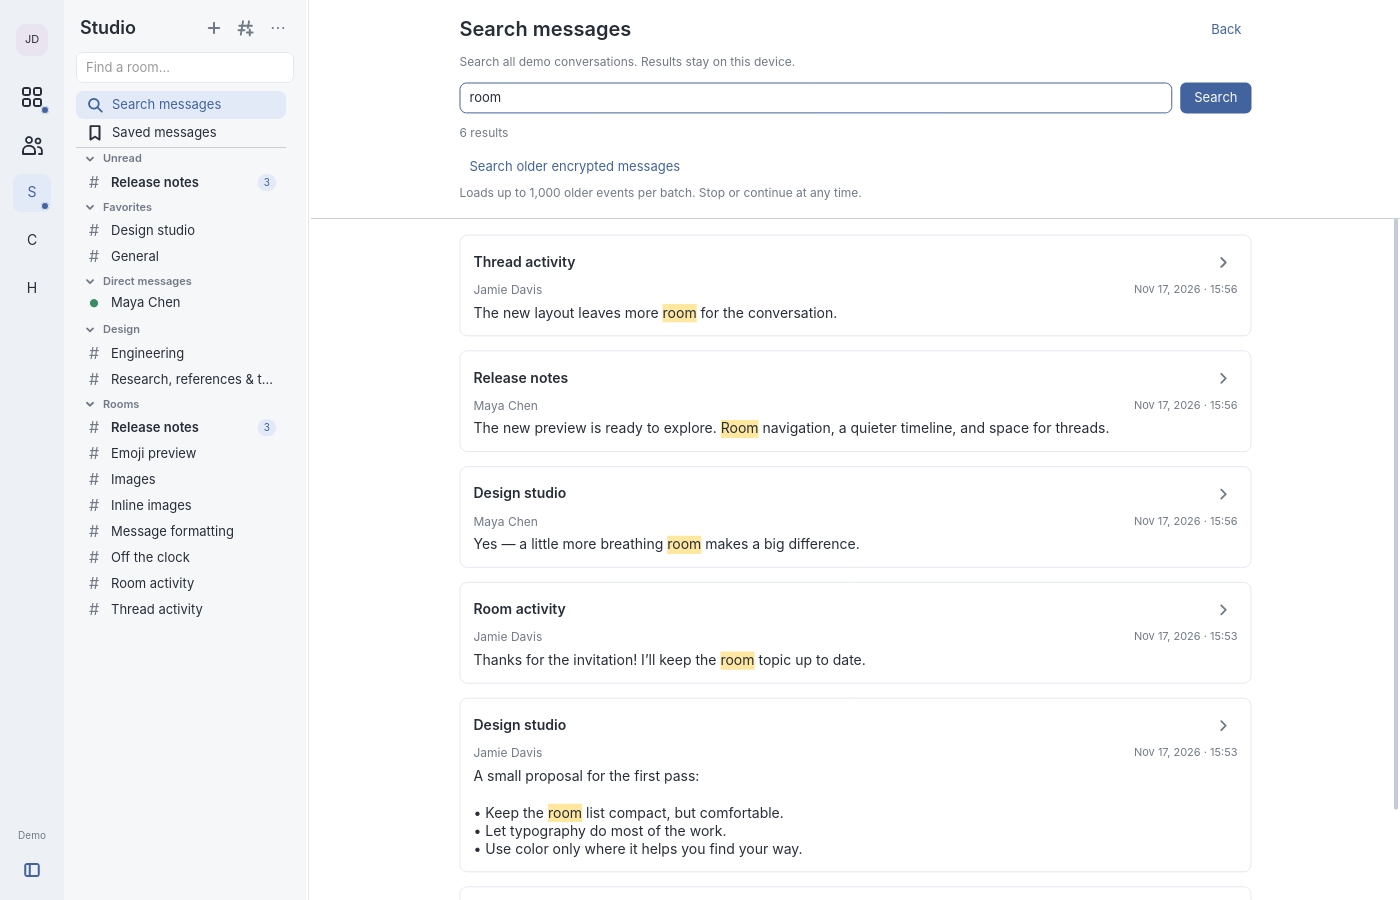
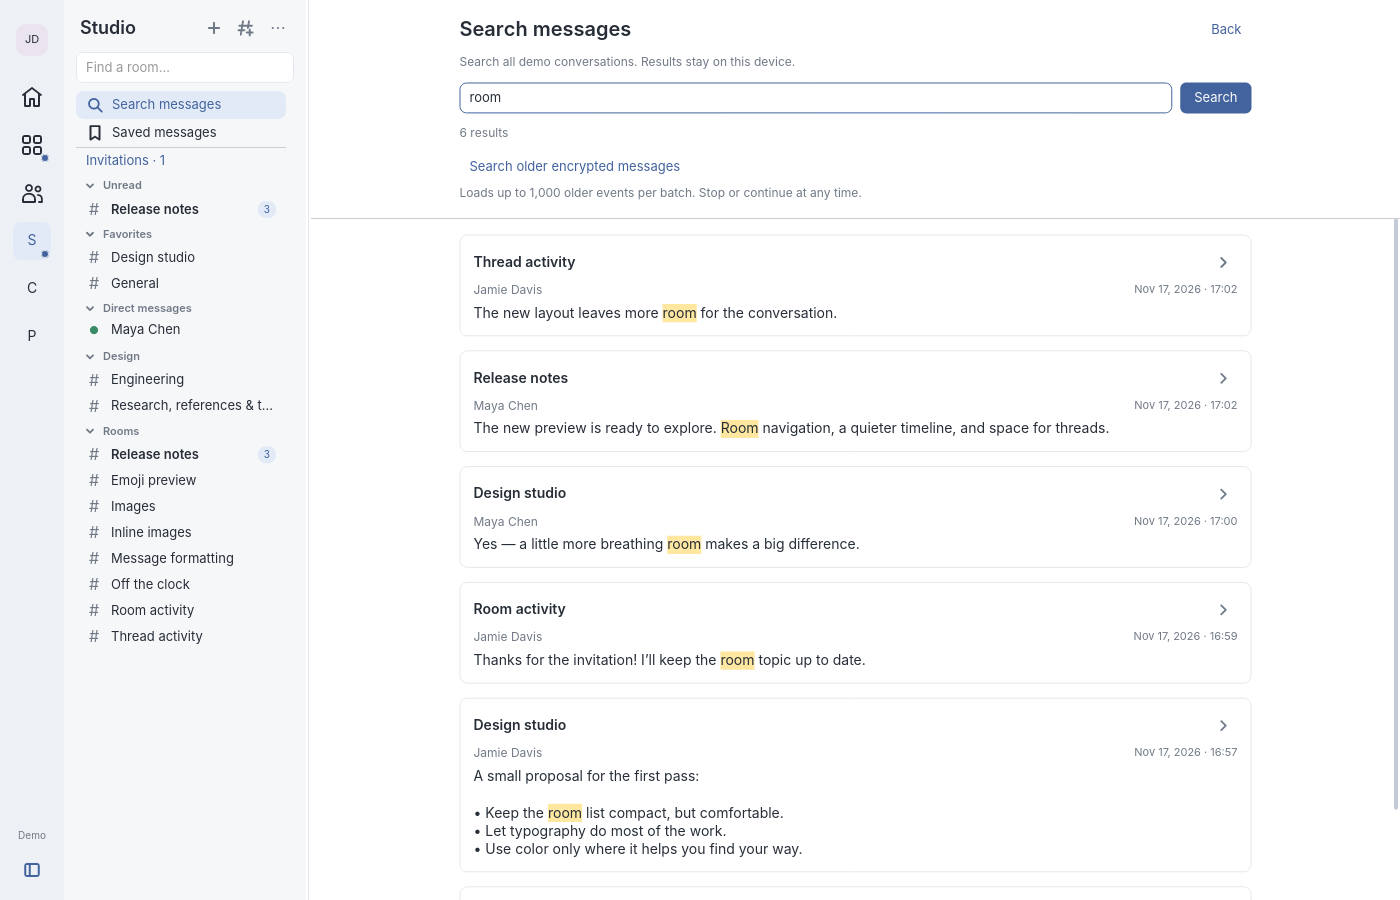
Refresh README and demo screenshots for current navigation

Changed region(s): [[0.0614, 0.1556, 0.1843, 0.7156], [0.0, 0.1556, 0.0307, 0.2178], [0.0, 0.0933, 0.0307, 0.1244]]

diff --git a/README.md b/README.md
@@ -6,29 +6,30 @@
 
 Interconnect is a native desktop [Matrix](https://matrix.org/) client written in
 Rust with [Iced](https://iced.rs/) and the
-[Matrix Rust SDK](https://github.com/matrix-org/matrix-rust-sdk). Spaces, custom
-room sections, and side-by-side threads keep conversations organized in a minimal
-interface. Message search, saved messages, and keyboard shortcuts help you find
-your way around busy accounts. Event-driven updates aim to keep idle CPU use and
-wakeups low.
+[Matrix Rust SDK](https://github.com/matrix-org/matrix-rust-sdk). Home, spaces,
+custom room sections, and side-by-side threads keep conversations organized in a
+minimal interface. Encrypted local text drafts survive restarts; message search,
+saved messages, and keyboard shortcuts help you find your way around busy accounts.
+Event-driven updates aim to keep idle CPU use and wakeups low.
 
 This project is fully AI-coded for the developer's own use, and shared in case
 it's useful to anyone else. It's a working prototype, with Linux/Wayland as the
 primary development platform and experimental Apple Silicon macOS builds.
 
-![Interconnect showing space navigation, unread rooms, custom sections, presence marks, and a conversation with a side-by-side thread](docs/images/demo.png)
+![Interconnect showing the Home house icon above All, an invitation shortcut, unread rooms, custom sections, and a conversation with a side-by-side thread](docs/images/demo.png)
 
-*Room and thread conversations in demo mode, using only local sample data.*
+*Home and space navigation, invitations, and a side-by-side thread. All names and messages are local demo data.*
 
 ## Current features
 
-- Password and browser SSO login, saved sessions, encrypted messaging, and device
-  verification, plus desktop sign-out.
-- Home for rooms outside spaces and all DMs, plus spaces, custom room sections,
-  favorites, unread indicators and ordering, and quick room switching.
-  Space filters keep the open conversation.
+- Password and browser SSO sign-in, saved sessions, end-to-end encrypted messaging,
+  device verification, and in-app sign-out.
+- Home for rooms outside spaces and all DMs, following Element's account preference,
+  plus spaces, custom room sections, favorites, unread indicators and ordering,
+  and quick room switching. Space filters preserve the open conversation.
 - Resizable room and thread panes with history loading, send status, and retry.
-  Encrypted text drafts survive restart; reading positions remain per-session.
+- Encrypted local room and thread text drafts, including composition mode and custom
+  emoji selections, restored after restart. Reading positions remain per-session.
 - In-room search and account-wide message search, with explicit scans of older
   encrypted history using available keys.
 - Saved messages with room and thread previews and navigation to the original.
@@ -38,8 +39,9 @@ primary development platform and experimental Apple Silicon macOS builds.
   inline images with explicit dimensions.
 - Matrix-compatible inline and display LaTeX math, rendered locally with RaTeX.
 - Markdown composition, on-demand previews, and a per-conversation plain-text mode.
-- People search, room creation, incoming invitations with accept/decline,
-  join by room address or Matrix link, confirmed leave, room topics, and pins.
+- Start direct chats, create rooms, accept or decline invitations, join by room ID,
+  alias or Matrix link, and leave rooms with confirmation.
+- People search, member lists, editable room topics, and pinned messages.
 - Reactions, Unicode and Matrix custom emoji pickers/completion, and personal and
   room emoji pack management with image uploads.
 - Image viewing and click-to-play GIFs.
@@ -50,9 +52,9 @@ primary development platform and experimental Apple Silicon macOS builds.
 - Desktop notifications, keyboard shortcuts, and configurable navigation,
   composition, media, and graphics settings.
 
-![Account-wide demo search showing highlighted matches from multiple rooms and threads with controls to open the original messages](docs/images/search.png)
+![Account-wide demo search with the updated Home and space rail, an invitation shortcut, and highlighted results from multiple rooms and threads](docs/images/search.png)
 
-*Search across conversations, with highlighted results and links back to messages.*
+*Account-wide search finds room messages and thread replies across spaces, with highlighted matches and navigation to the original.*
 
 ## Try it
 

diff --git a/docs/validation/connected-ui.md b/docs/validation/connected-ui.md
@@ -1738,3 +1738,15 @@ Local Home validation: formatting, workspace Clippy with warnings denied,
 203 library and 343 desktop tests passed (two opt-in library fixtures ignored),
 and the locked desktop build passed. The Linux Wayland demo launched and ran
 until an eight-second validation timeout; no account actions were exercised.
+
+## README screenshot refresh
+
+The README conversation/thread and account-wide search screenshots were refreshed
+from the current demo at 1400×900 in an isolated headless Sway desktop using
+tiny-skia. The captures show the new Home house icon, invitation shortcut,
+updated space rail, and current thread/search layouts. They contain only demo
+fixtures. The locked desktop build passed; both captures were visually reviewed,
+PNG structure/checksums and README local links were checked. Temporary compositor
+configuration and logs stayed outside the repository. No saved account or
+connected client was accessed. These captures do not validate native macOS or
+connected-account behavior.
